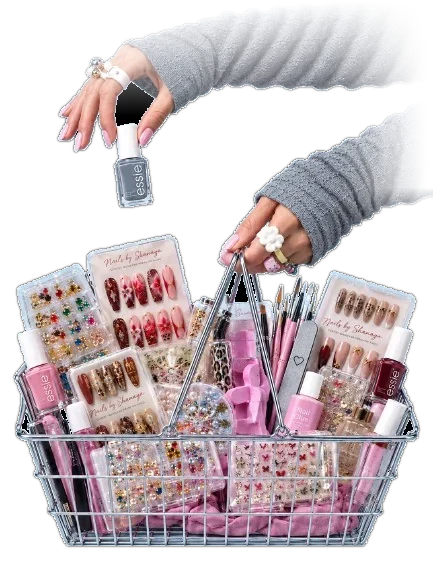
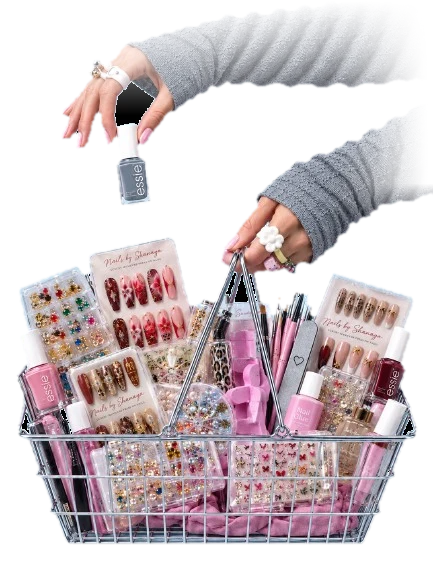
Baskets: no white outline, A24-style growing row, slower scroll
- Cut-outs trimmed just inside the bright outline the photos have, so no
  white halo shows on the cream background
- The row grows to the right like the A24 film index: smaller baskets on
  the left, bigger ones coming in on the right, all on one floor above the
  quotes and clear of the panel (small ones fade before reaching it)
- Slower: the section is longer (about 70% of a screen of scrolling per
  basket) and the motion eases more softly

diff --git a/js/story.js b/js/story.js
@@ -147,40 +147,43 @@
       out.now.textContent = pad(i + 1);
     };
     const sc = pinned(coll);
-    // Free space for the baskets: right of the info panel, between the top
-    // links and the quotes, so nothing ever sits on the text.
+    // The baskets travel along a row that grows to the right (after A24's
+    // film index): smaller ones behind on the left, bigger ones coming in on
+    // the right. They all stand on one floor just above the quotes, and the
+    // row is placed so no basket ever sits on the panel, the links or the quotes.
     const top = $('.cd__top', coll), quotes = $('.cd__quotes', coll);
-    let box = { l: 0, r: 1, t: 0, b: 1 };
+    const G = 1.3, K = 0.92;                                  // size step between baskets; spacing (a touch of overlap)
+    const along = (d) => K * (1 + G) / 2 * (Math.pow(G, d) - 1) / (G - 1); // centre offset of basket d, in featured widths
+    let L = { cx: 0, floor: 1, w0: 1, h0: 1, dmin: 0 };
     sc.measure = ((m) => () => {
       m();
-      box = {
-        l: info.offsetLeft + info.offsetWidth + 36, r: stage.clientWidth - 28,
-        t: top.offsetTop + top.offsetHeight + 18, b: quotes.offsetTop - 14,
-      };
+      const W = stage.clientWidth, H = stage.clientHeight;
+      const floor = quotes.offsetTop - 16, ceil = top.offsetTop + top.offsetHeight + 16;
+      const h0 = Math.min(H * 0.62, (floor - ceil) / G);    // the next (bigger) basket still clears the links
+      const w0 = h0 * 0.78;                                  // the photos are about 4:5
+      const panel = { r: info.offsetLeft + info.offsetWidth + 24, b: info.offsetTop + info.offsetHeight + 16 };
+      const cx = Math.max(W * 0.5, panel.r + w0 * 0.55);    // the featured basket clears the panel
+      let dmin = 0;                                          // the smaller baskets fade out before they reach it
+      while (dmin > -3.6) {
+        const d = dmin - 0.05, s = Math.pow(G, d), left = cx + along(d) * w0 - s * w0 / 2;
+        if (left < 8 || (floor - s * h0 < panel.b && left < panel.r)) break;
+        dmin = d;
+      }
+      L = { cx, floor, w0, h0, dmin };
     })(sc.measure);
-    const R = 0.68, GAP = 0.1;                        // each next basket is 68% the size, 10% apart
-    const run = (d) => (1 - Math.pow(R, d)) / (1 - R); // distance to basket d, in featured widths
-    // each step holds still, then glides to the next basket
-    const settle = (f) => { const i = Math.floor(f), t = clamp((f - i - 0.2) / 0.6); return i + t * t * (3 - 2 * t); };
-    const render = scrubber(0.6, (raw) => {
-      const f = settle(raw);
-      const room = box.r - box.l;
-      const row = (1 + GAP) * run(3) + Math.pow(R, 3);           // the row's width, in featured widths
-      const w0 = Math.min((box.b - box.t) * 0.78, room / row);    // the photos are about 4:5
-      const h0 = w0 / 0.78;
-      const x0 = box.l + (room - w0 * row) / 2;
+    const render = scrubber(0.9, (f) => {
+      const { cx, floor, w0, h0, dmin } = L;
       items.forEach((c, i) => {
         const d = i - f;
-        if (d < -0.5 || d > 3.4) { c.style.visibility = 'hidden'; return; }
+        if (d < dmin || d > 2.6) { c.style.visibility = 'hidden'; return; }
         c.style.visibility = '';
-        const s = d >= 0 ? Math.pow(R, d) : 1;
-        const x = d >= 0 ? x0 + w0 * (1 + GAP) * run(d) : x0 + w0 * 0.6 * d;
-        const y = box.b - (1 - s) * h0 * 0.18;                     // further baskets sit a little higher
+        const s = Math.pow(G, d);
+        const x = cx + along(d) * w0 - w0 / 2;
         c.style.width = `${w0.toFixed(1)}px`;
         c.style.height = `${h0.toFixed(1)}px`;
-        c.style.transform = `translate3d(${x.toFixed(1)}px,${(y - h0).toFixed(1)}px,0) scale(${s.toFixed(4)})`;
-        c.style.zIndex = String(50 - Math.round(d * 10));
-        c.style.opacity = String(d < 0 ? clamp(1 + d * 2.2) : d <= 2 ? 1 : (1 - 0.6 * clamp(d - 2)) * clamp((3.4 - d) / 0.4)); // the 4th one waits faintly
+        c.style.transform = `translate3d(${x.toFixed(1)}px,${(floor - h0).toFixed(1)}px,0) scale(${s.toFixed(4)})`;
+        c.style.zIndex = String(50 + Math.round(d * 10));
+        c.style.opacity = String(clamp(Math.min((d - dmin) / 0.6, 2.6 - d)));
         const on = Math.abs(d) < 0.5;
         c.classList.toggle('is-active', on);
         c.tabIndex = on ? 0 : -1;

diff --git a/style.css b/style.css
@@ -1618,7 +1618,7 @@ body.hdr-hidden .filters { top: 0; }
 .craft__bar span { display: block; height: 100%; background: var(--pink); transform: scaleY(0); transform-origin: top; }
 
 /* ── 3. collection: baskets on a rising diagonal (A24-style) ── */
-.coll { position: relative; height: 420vh; background: var(--cream); }
+.coll { position: relative; height: 760vh; background: var(--cream); }
 .coll__sticky { position: sticky; top: 0; height: 100vh; height: 100svh; overflow: hidden; }
 .cd__frame {
   position: absolute; inset: calc(var(--hdr-h) + 2vh) clamp(20px, 3vw, 48px) 3vh; overflow: hidden;
@@ -1637,7 +1637,7 @@ body.hdr-hidden .filters { top: 0; }
 .cd__side--r { right: 16px; font-family: var(--f-display); font-style: italic; font-size: 14px; }
 .cd__stage { position: absolute; inset: 0; z-index: 1; }
 .bk {
-  position: absolute; left: 0; top: 0; display: block; transform-origin: 0 100%; will-change: transform, opacity;
+  position: absolute; left: 0; top: 0; display: block; transform-origin: 50% 100%; will-change: transform, opacity;
 }
 .bk img {
   display: block; width: 100%; height: 100%; object-fit: contain; object-position: 50% 100%;
